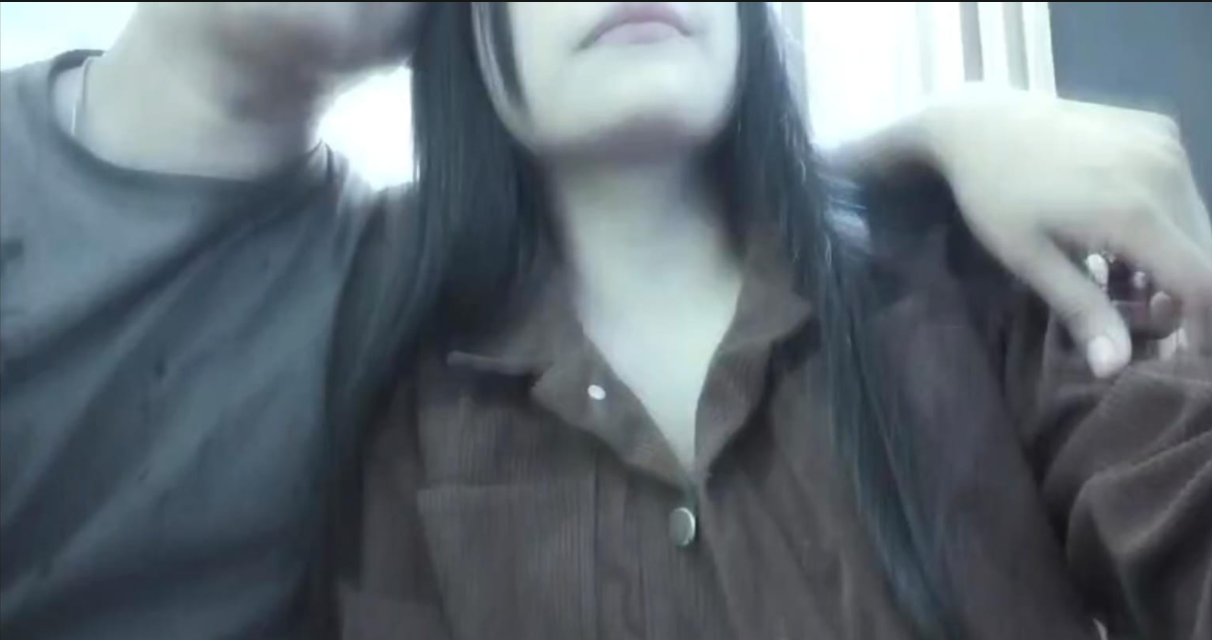
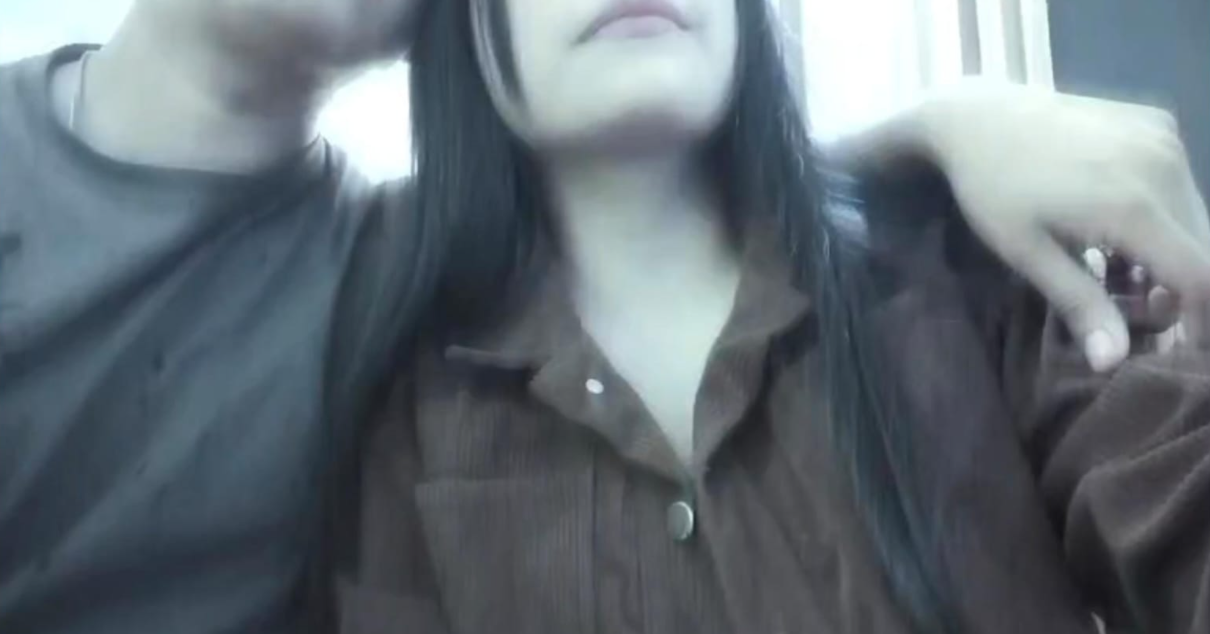
fin

diff --git a/styles.css b/styles.css
@@ -454,3 +454,125 @@ body {
     }
 }
 
+
+/* =========================================
+   DETALLES FINALES: PORTADA Y CUMPLEAÑOS
+   ========================================= */
+
+/* PORTADA: textos ligeramente más grandes */
+.scene-mail .tiny-label {
+    font-size: 10px !important;
+    letter-spacing: 3.3px;
+}
+
+.scene-mail .mail-title {
+    font-size: clamp(49px, 5.5vw, 72px) !important;
+}
+
+.scene-mail .mail-subtitle {
+    font-size: 15px !important;
+}
+
+.scene-mail .tap-instruction {
+    font-size: 9px !important;
+}
+
+.scene-mail .mail-postmark {
+    font-size: 9px !important;
+}
+
+.scene-mail .scene-side-note {
+    font-size: 12px !important;
+}
+
+/* FLORES Y CORAZONES DECORATIVOS EN LA PORTADA */
+.scene-mail::before,
+.scene-mail::after {
+    position: absolute;
+    pointer-events: none;
+    z-index: 0;
+    white-space: pre;
+    font-family: Georgia, serif;
+    font-size: clamp(25px, 3.2vw, 39px);
+    line-height: 1.55;
+    color: #e87591;
+    opacity: .48;
+    text-shadow: 0 4px 12px rgba(190, 65, 100, .12);
+    animation: detallesFlotantes 5s ease-in-out infinite;
+}
+
+.scene-mail::before {
+    content: "✿\A♡\A✧";
+    left: 9%;
+    top: 24%;
+    transform: rotate(-12deg);
+}
+
+.scene-mail::after {
+    content: "♡\A✿\A♡";
+    right: 9%;
+    bottom: 17%;
+    transform: rotate(12deg);
+    animation-delay: -2.5s;
+}
+
+/* Movimiento suave de los adornos */
+@keyframes detallesFlotantes {
+    0%, 100% {
+        translate: 0 0;
+    }
+    50% {
+        translate: 0 -9px;
+    }
+}
+
+/* CUMPLEAÑOS: un tono más oscuro y un poco más grandes */
+.scene-birthday .birthday-caption {
+    color: #914f5e !important;
+    font-size: 15px !important;
+}
+
+.scene-birthday .birthday-from {
+    color: #925363 !important;
+    font-size: 9px !important;
+}
+
+/* Ajustes para celulares */
+@media(max-width:760px) {
+    .scene-mail .mail-title {
+        font-size: 54px !important;
+    }
+
+    .scene-mail .mail-subtitle {
+        font-size: 13px !important;
+    }
+
+    .scene-mail .tiny-label {
+        font-size: 9px !important;
+    }
+
+    .scene-mail .tap-instruction {
+        font-size: 8px !important;
+    }
+
+    .scene-mail::before {
+        left: 4%;
+        top: 25%;
+        font-size: 24px;
+    }
+
+    .scene-mail::after {
+        right: 4%;
+        bottom: 16%;
+        font-size: 24px;
+    }
+
+    .scene-birthday .birthday-caption {
+        font-size: 12px !important;
+    }
+
+    .scene-birthday .birthday-from {
+        font-size: 8px !important;
+    }
+}
+
